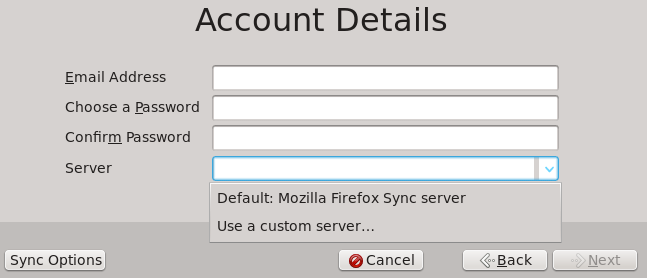
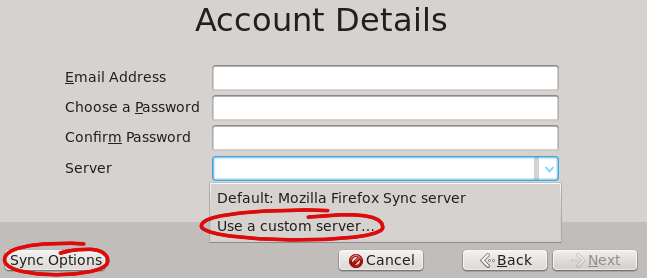
added marks to pictures, added info about initial account creation

Changed region(s): [[0.3091, 0.7482, 0.5873, 0.8921], [0.0, 0.8633, 0.1855, 1.0], [0.5873, 0.8058, 0.6182, 0.8345]]

diff --git a/INSTALL.md b/INSTALL.md
@@ -28,6 +28,8 @@ The installation procedure is as follows:
 
 ### Sync installation on desktop Firefox
 
+To init the sync of bookmarks, etc. you have to create an account with a desktop installation of Firefox. If you want to sync other devices (e.q. smart phones) do the following installation steps and than pair your device.
+
 1. Start the sync configuration process
 
     via the *settings* > *Sync* > *Set Up Firefox Sync*<br/>
